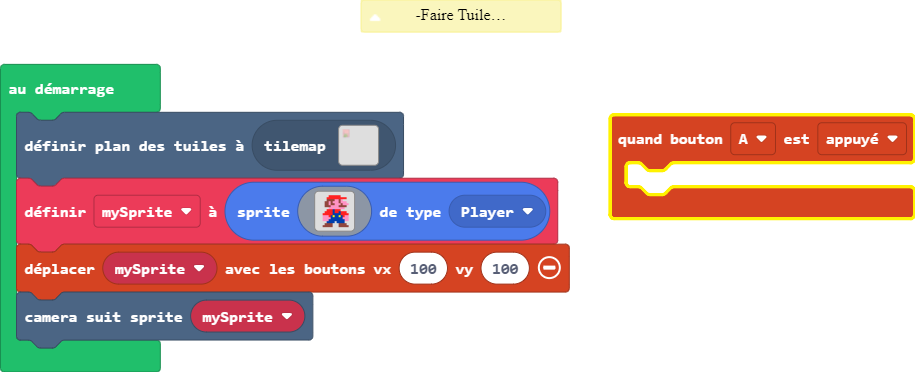
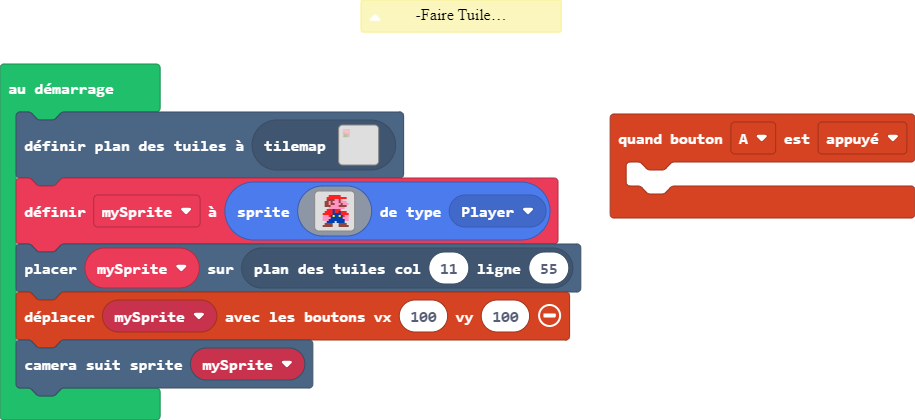
Mise à jour main.blocks, main.ts

diff --git a/main.ts b/main.ts
@@ -31,5 +31,6 @@ let mySprite = sprites.create(img`
     . . . e e e e . . . e e e e . . 
     . . e e e e e . . . e e e e e . 
     `, SpriteKind.Player)
+tiles.placeOnTile(mySprite, tiles.getTileLocation(11, 55))
 controller.moveSprite(mySprite, 100, 100)
 scene.cameraFollowSprite(mySprite)
